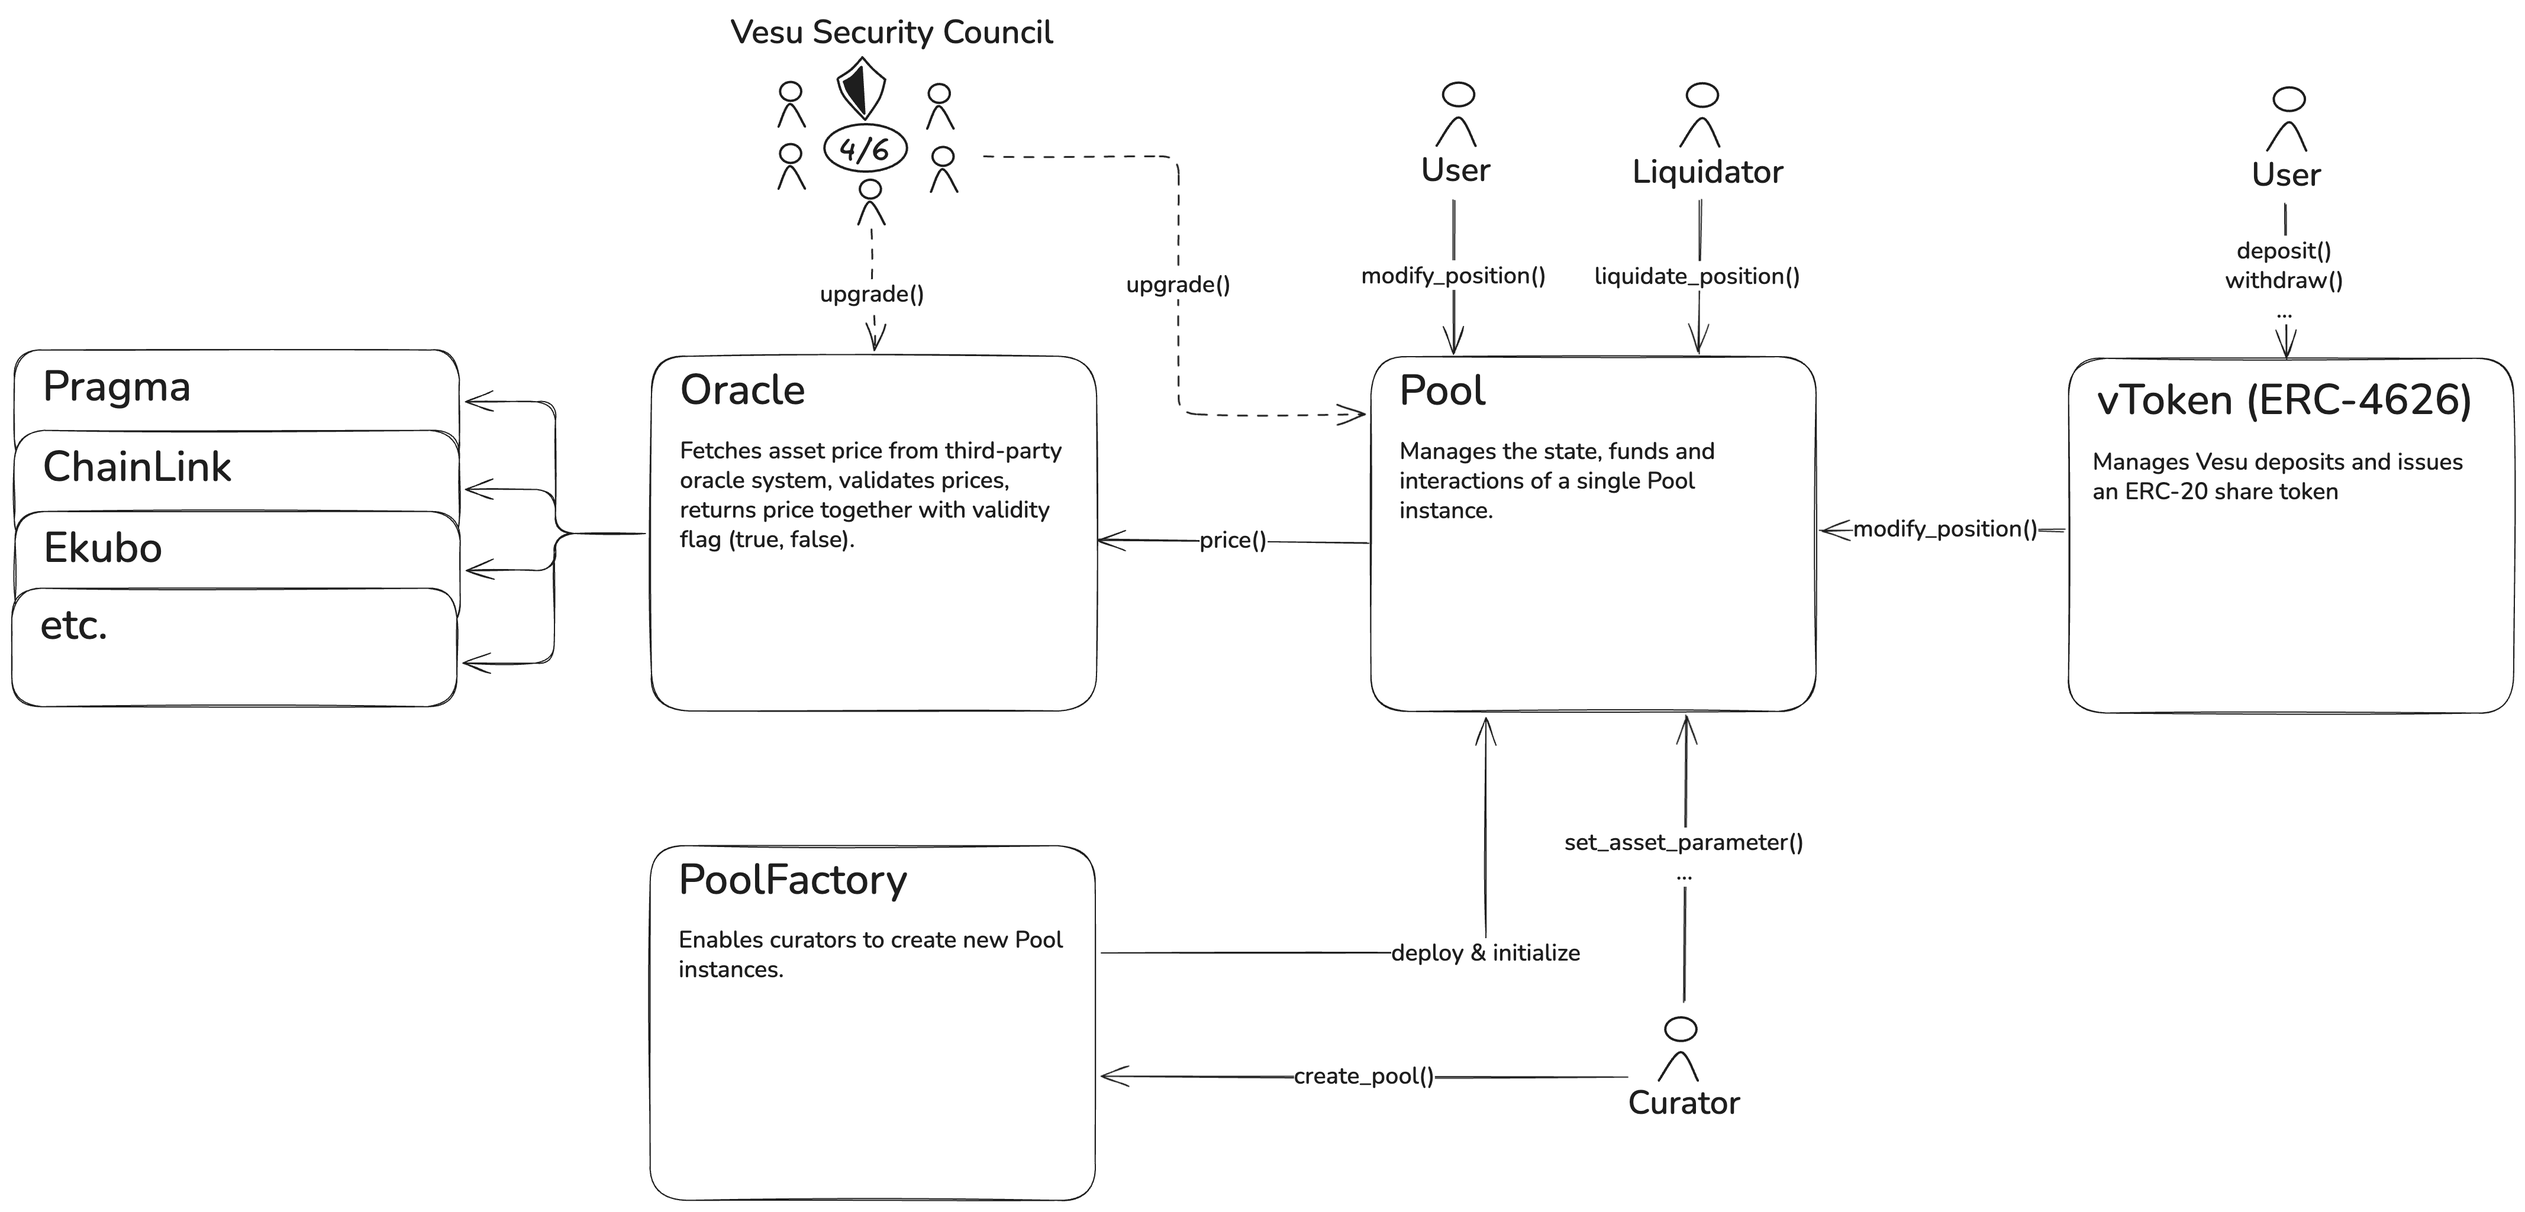
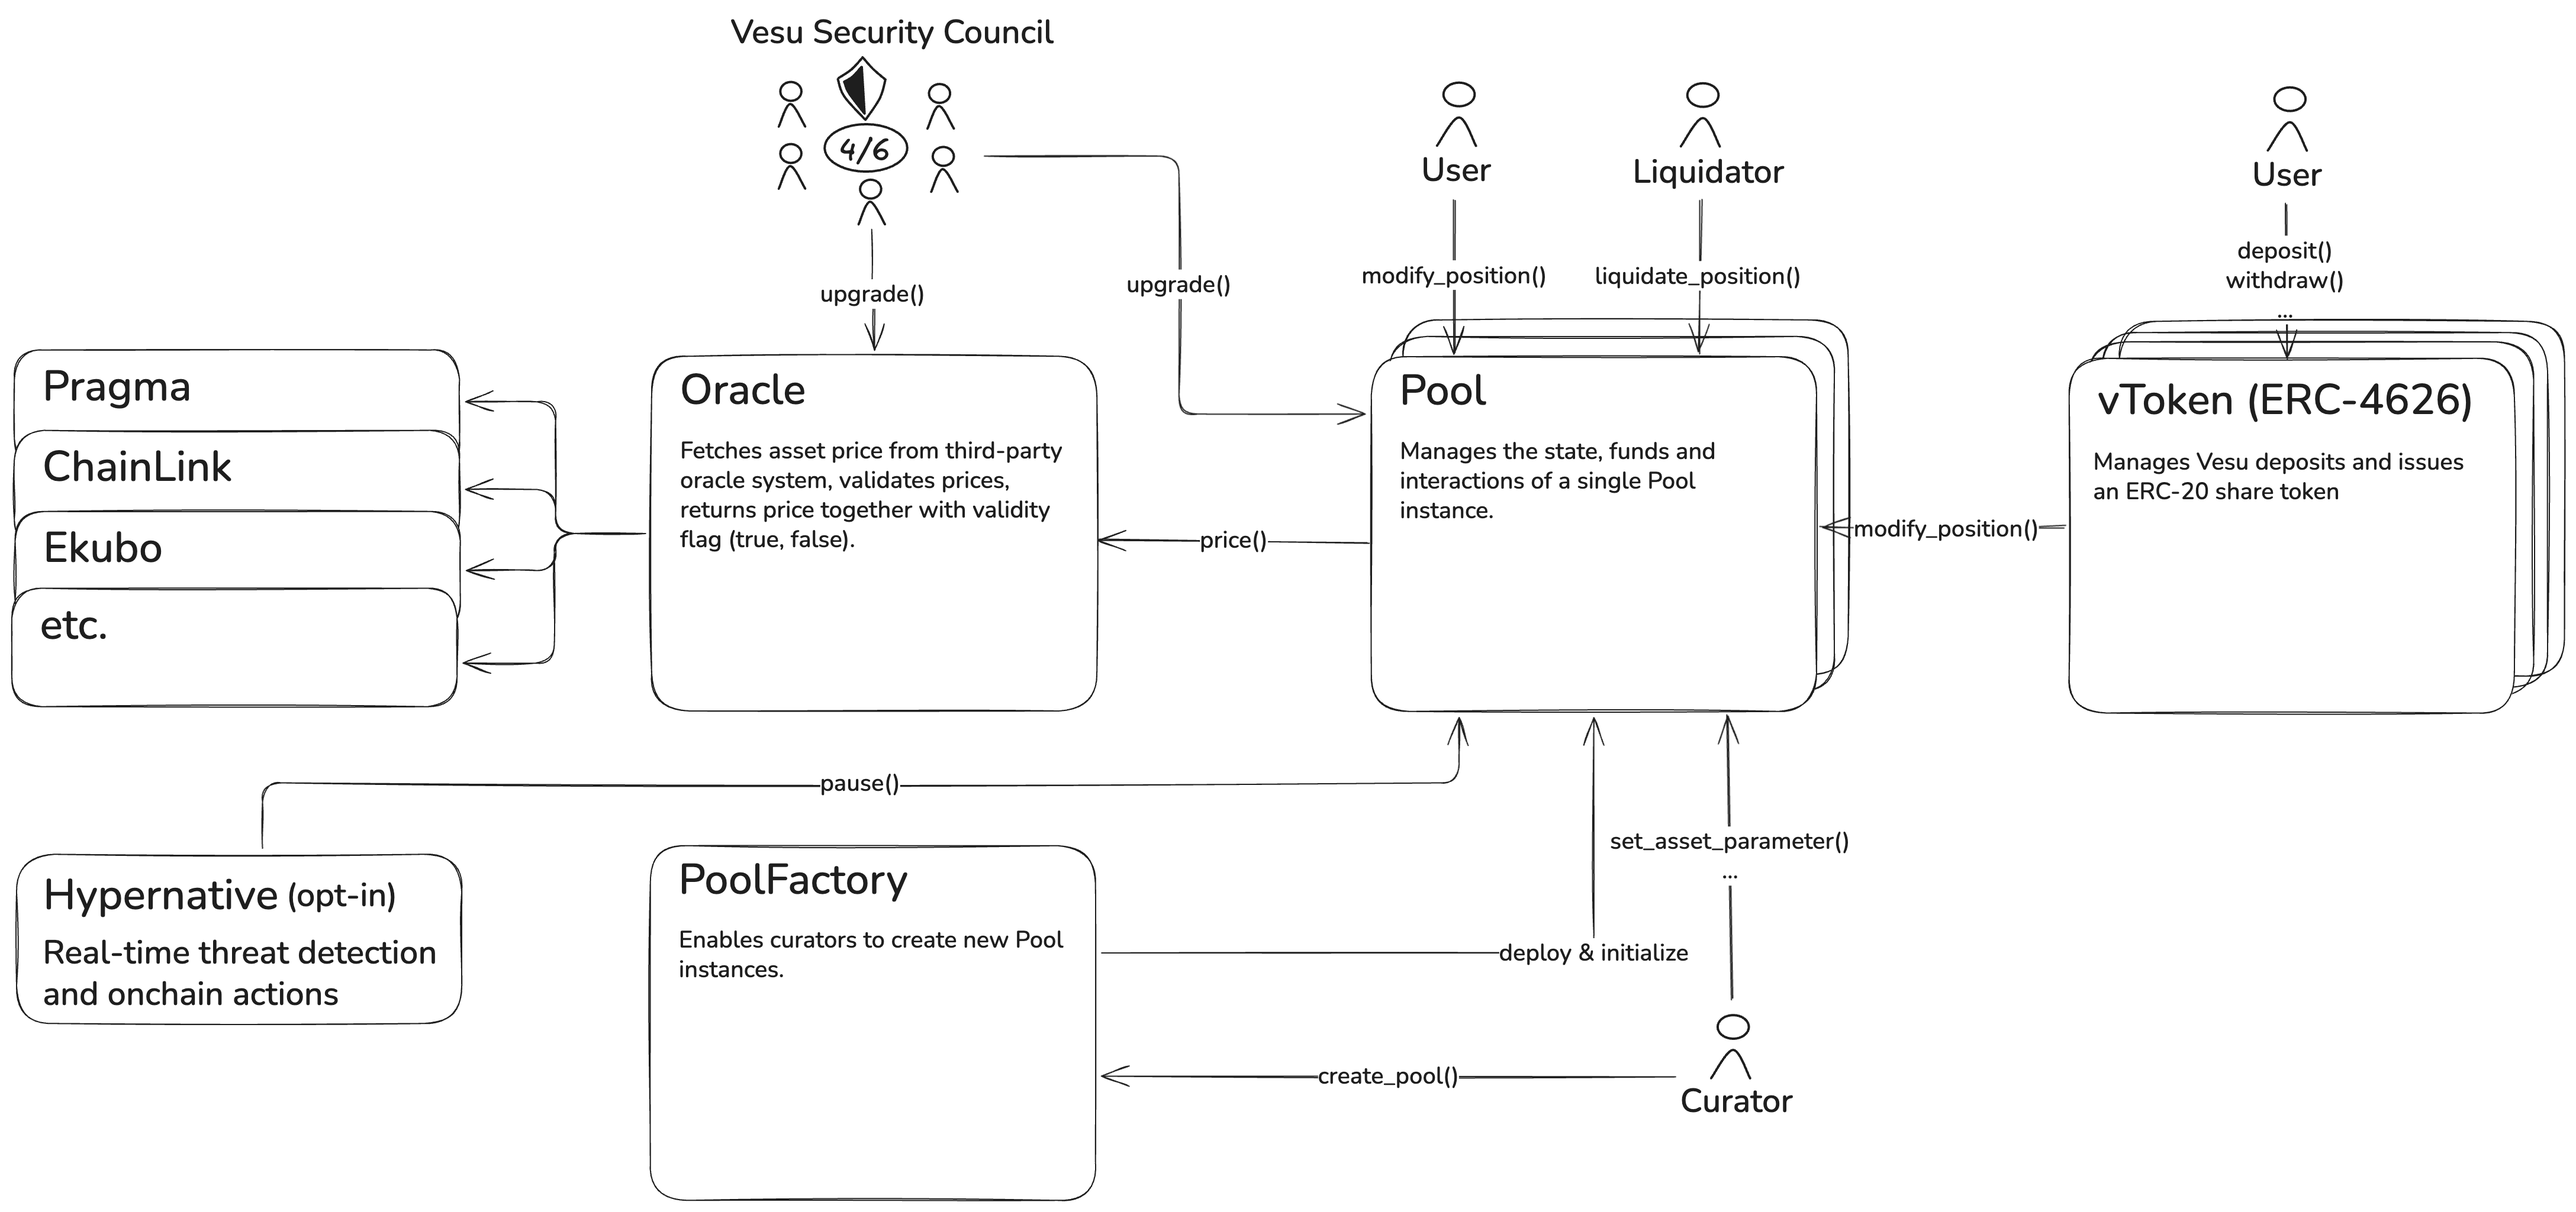
add hypernative agent

diff --git a/docs/developers/core/architecture.md b/docs/developers/core/architecture.md
@@ -5,16 +5,20 @@ sidebar_label: Architecture
 sidebar_position: 1
 ---
 
-The Vesu V2 protocol is built with a focus on simplicity and security. It consists of a few building blocks that aim at maximally isolate user funds and reduce bug and attack surface. The architecture of the Vesu V2 protocol and its building blocks is outlined in the figure below.
+The Vesu V2 protocol is built with a focus on simplicity and security. It consists of a few building blocks that aim at maximally isolate user funds and reduce the bug and attack surface. The architecture of the Vesu V2 protocol and its building blocks is outlined in the figure below.
 
 ![Vesu Architecture](../images/vesu-v2-architecture.png)
 
-Each lending pool is therefore isolated in a separate instance of the `Pool` contract. This contract manages all state, user funds and interactions related to that specific pool. 
+Each lending pool is isolated in a separate instance of the `Pool` contract. This contract manages all state, user funds and interactions related to that specific pool. This way, in Vesu V2 user funds are isolated by design in separate `Pool` instances.
+
+At the same time, the concept of lending pairs and positions remains exactly the same as in the Vesu V1 protocol. Thus, Vesu V2 pools remain as flexible as it gets when it comes to the configuration of different loan structures within a pool. Similarly, pool curators keep the granular level of control over risk exposures and parameters as known from Vesu V1.
 
 For each asset in the pool a corresponding `vToken`, following the ERC-4626 standard, is deployed which allows lenders to deposit funds into the pool and receive a share token in return. 
 
 The `Pool` contract fetches asset prices from the `Oracle` (adapter) contract. This contract fetches the raw asset prices from a third-party oracle provider, currently Pragma, validates these prices and returns both the price and validity flag (true, false) to the `Pool` contract. The `Pool` contract pauses all asset withdrawals in case it recieves an invalid asset price from the `Oracle`.
 
-Finally, the `PoolFactory` allows curators to create new `Pool` instances through a simple interface, `create_pool`. Upon pool creation, the `PoolFactory` deploys a new `Pool` contract, initializes it with the provided asset and pair parameters and deploys the respective `vToken`s.
+An additional highlight introduced with the Vesu V2 protocol is the ability for curators to opt-in to having a lending pool being monitored by Hypernative's real-time threat detection and onchain actions infrastructure. This enables the respective pool's to be continuously monitored and temporarily paused in case of a potential threat, thereby serving as a crucial layer of protection for users and the Starknet ecosystem. 
+
+Finally, the `PoolFactory` allows curators to create new `Pool` instances through a simple interface, `create_pool`. Upon pool creation, the `PoolFactory` deploys a new `Pool` contract, initializes it with the provided asset and pair parameters and deploys the respective `vToken`s. Pool creation and curation remains a permissionless activity continuing Vesu's legacy of empowering fully open, global and secure lending markets on Starknet.
 
 For security purposes, the `Pool` and `Oracle` contracts are upgradeable with the permission to upgrade owned by the Vesu Security Council. This council is explained in more details in the [Security docs](/docs/security/security-council.md).
